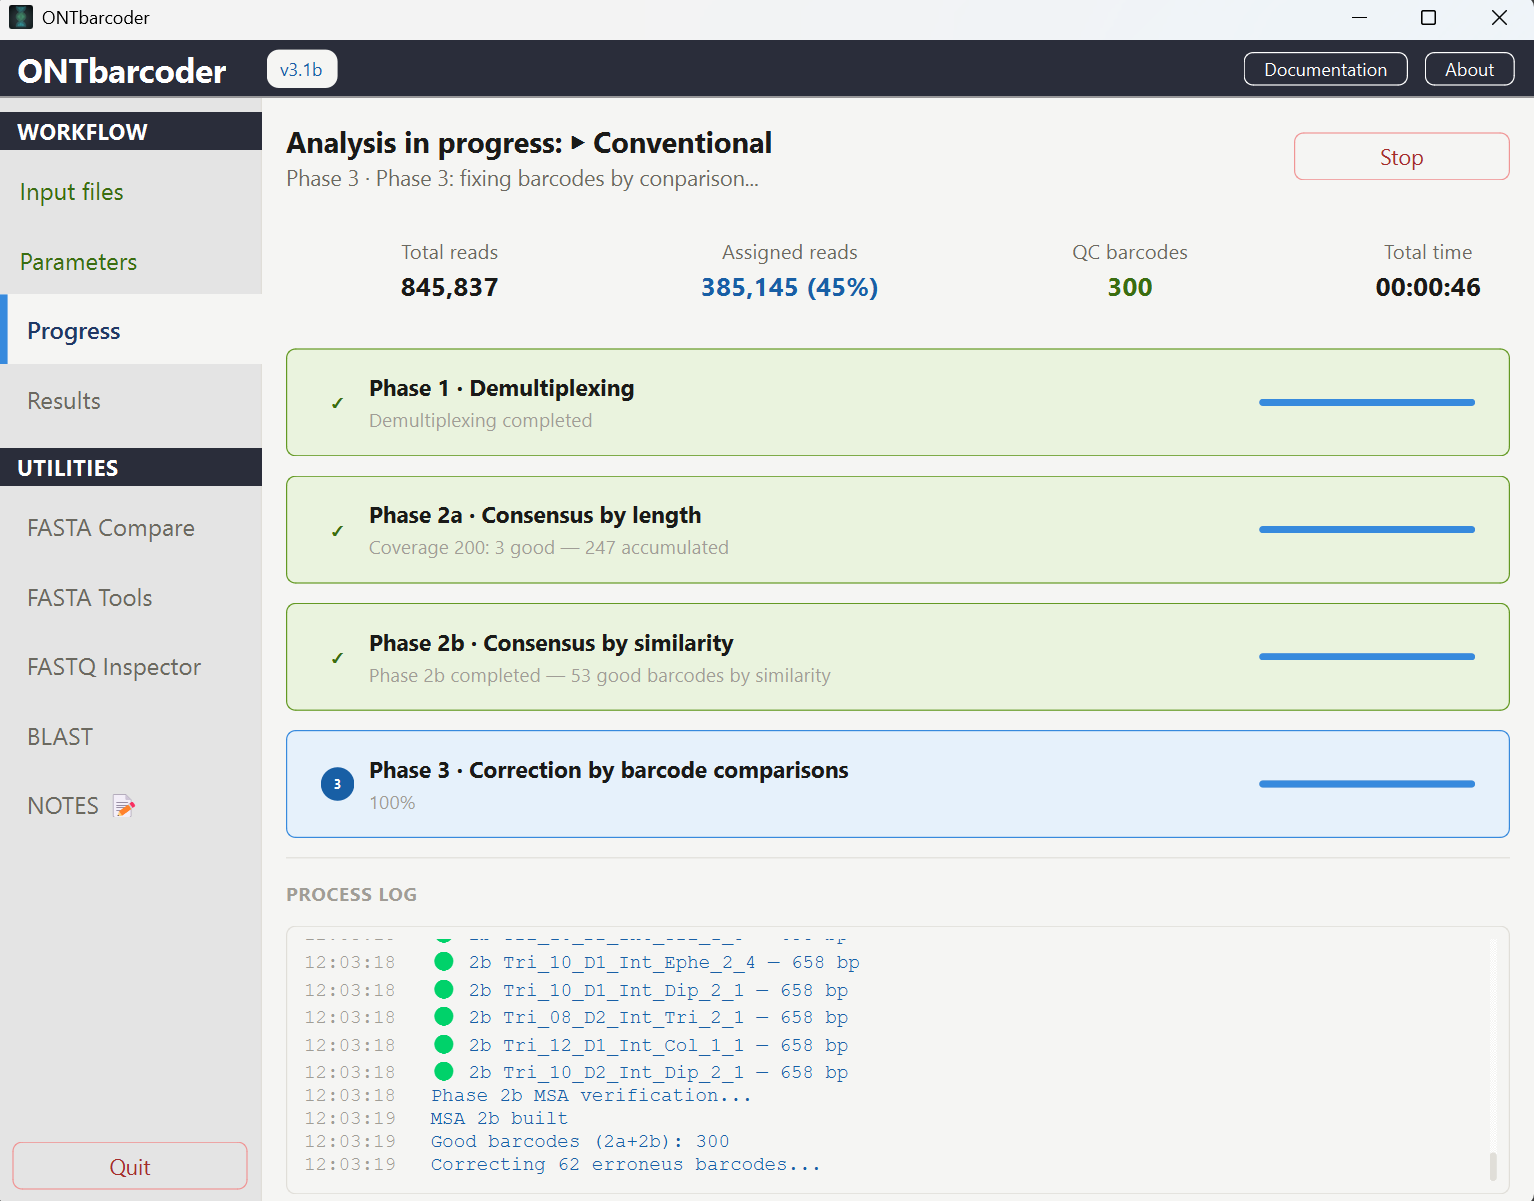
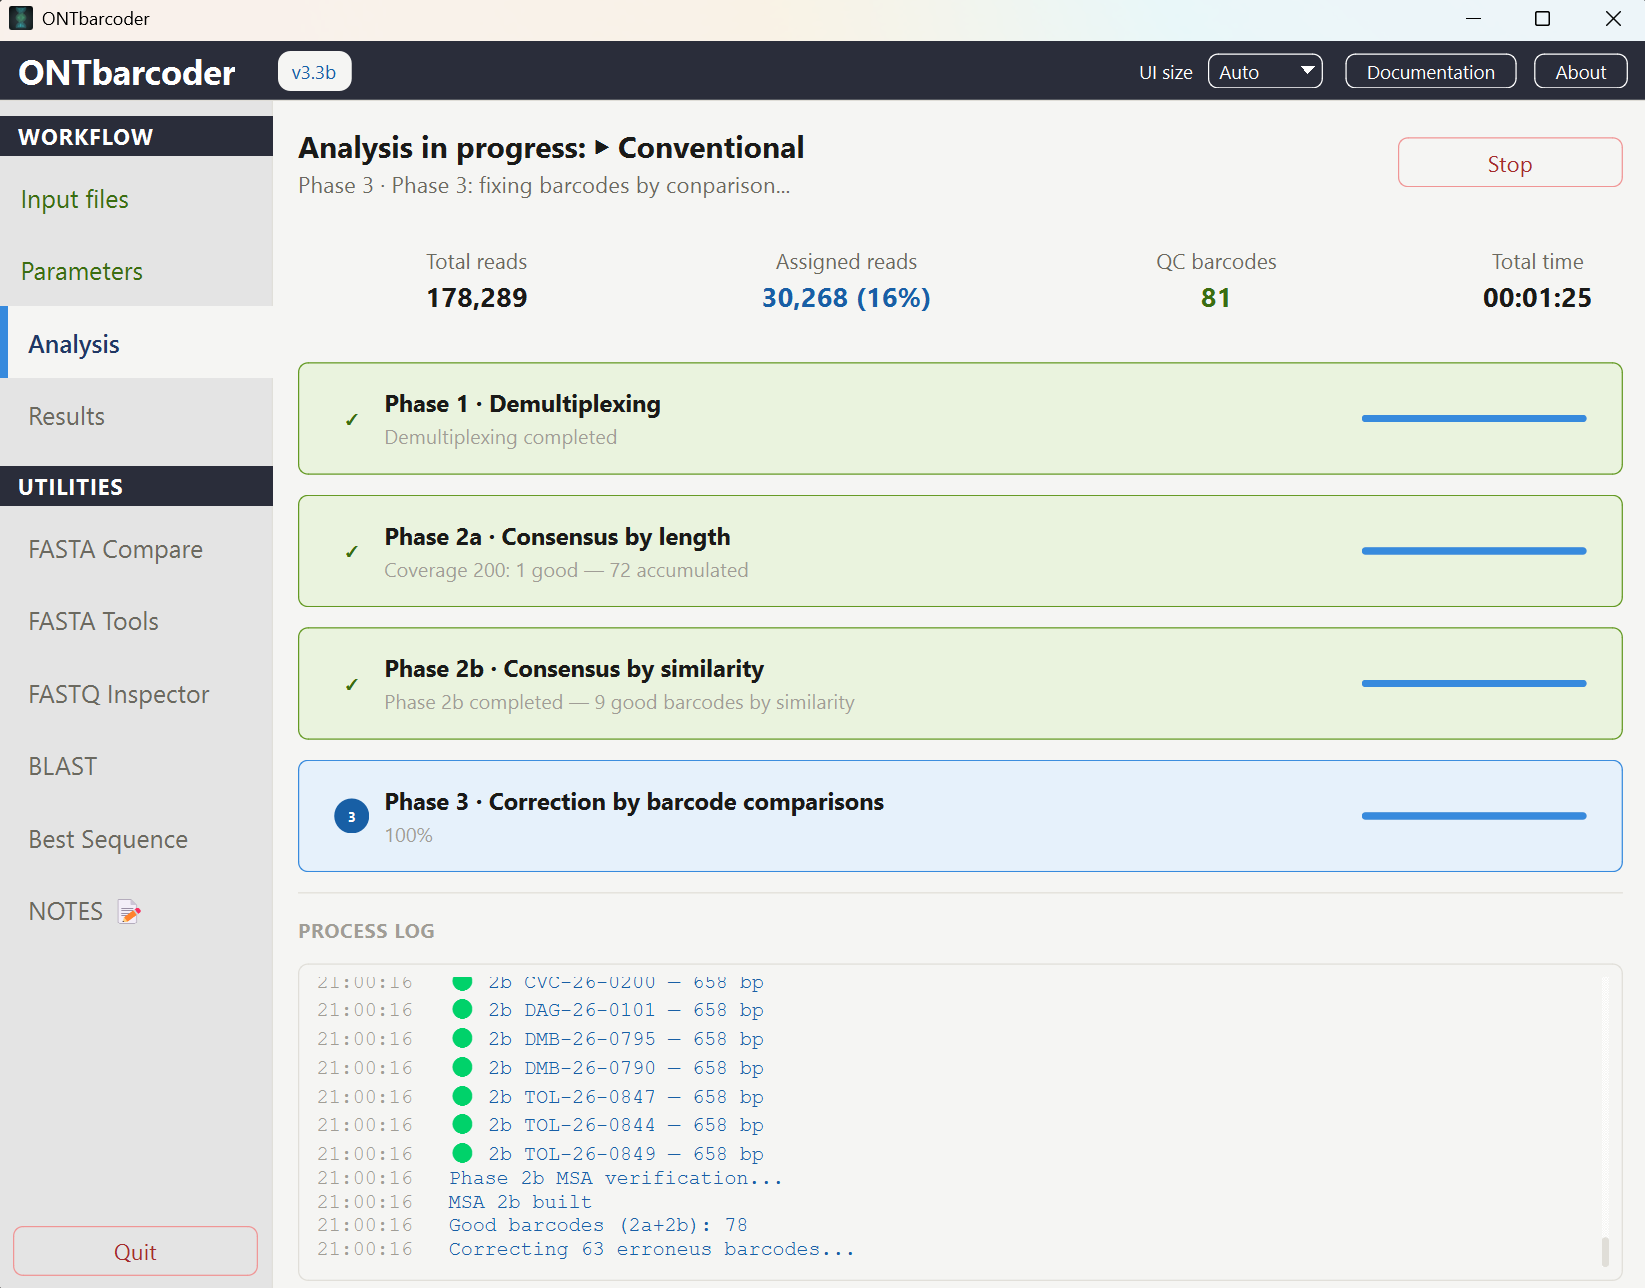
Add 3.3b screenshots and activate the Best Sequence figure
All manual screenshots recaptured on the 3.3b interface (the sidebar now
reads "Analysis" instead of "Progress"), plus the new util-best.png for
the Best Sequence panel. Figure 11 no longer renders as a placeholder.

Also notes the Best Sequence panel alongside BLAST and FASTA Tools in
the openpyxl comment of requirements.txt.

diff --git a/guide/MANUAL.html b/guide/MANUAL.html
@@ -951,7 +951,7 @@ in more than one run, slightly different sequences. This utility merges those ru
 keeps <b>one best sequence per sample</b>, using the BLAST hits of each candidate as the
 arbiter. Open it from <b>Best Sequence</b> in the sidebar, just below <b>BLAST</b>.</p>
 
-<figure class="ph">
+<figure class="">
   <img src="images/util-best.png" alt="Best Sequence utility">
   <figcaption><b>Figure 11.</b> The Best Sequence utility: paired FASTA + BLAST inputs and
   the scoring settings.</figcaption>
